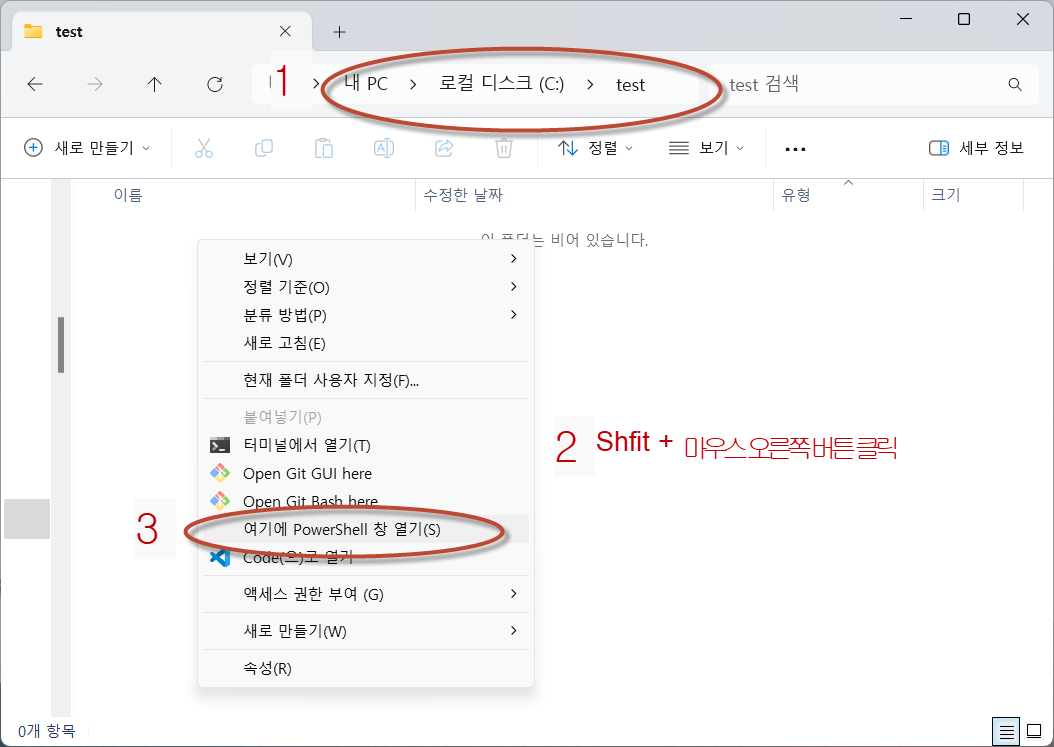
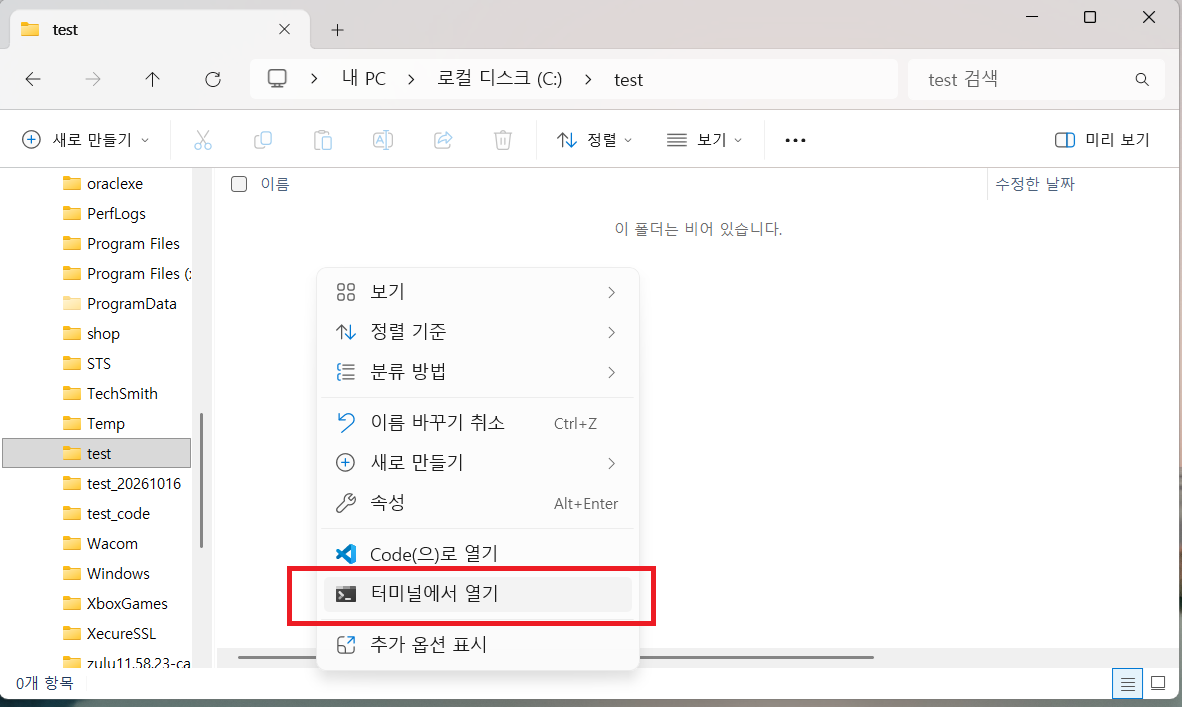
Add files via upload

diff --git a/temp/style2.css b/temp/style2.css
@@ -1,0 +1,130 @@
+body {
+    font-family: 'Segoe UI', Tahoma, Geneva, Verdana, sans-serif;
+    line-height: 1.6;
+    margin: 20px;
+    background-color: #f4f4f4;
+}
+.faq-container {
+    width: 100%;
+    max-width: 800px;
+    margin: auto;
+    padding: 20px;
+}
+.faq-section {
+    background-color: white;
+    margin-bottom: 10px;
+    border-radius: 8px;
+    box-shadow: 0 5px 15px rgba(0,0,0,0.1);
+    overflow: hidden;
+}
+.faq-question {
+    padding: 15px 20px;
+    margin: 0;
+    background-color: #007bff;
+    color: white;
+    cursor: pointer;
+    display: flex;
+    justify-content: space-between;
+    align-items: center;
+    transition: background 0.3s ease;
+}
+.faq-question:hover {
+    background-color: #0056b3;
+}
+.faq-question i {
+    transition: transform 0.3s ease;
+}
+.active .faq-question i {
+    transform: rotate(180deg);
+}
+.faq-answer {
+    padding: 20px;
+    background-color: #e9ecef;
+    display: none;
+}
+.faq-answer p {
+    margin: 0;
+}
+.correct-answer {
+    color: red;
+}
+
+.em{
+    font-weight: bold;
+}
+
+a {
+    color: inherit; /* 상위 요소로부터 글자 색상을 상속받습니다. */
+    text-decoration: none; /* 밑줄을 제거합니다. */
+}
+
+.highlight {
+    background-color: lightblue ;
+    padding: 2px 4px; /* 내용과 테두리 사이의 여백 */
+    border-radius: 4px; /* 모서리 둥글게 */
+    display: inline-block; /* 인라인 블록으로 표시 */
+    width: 80%; /* 너비 설정 */    
+    
+}
+
+/* "정답" 버튼의 스타일을 지정 */
+#answerButton {
+    float: right; /* 버튼을 오른쪽으로 이동 */
+    background-color: green; /* 배경 색상을 초록색으로 설정 */
+    color: white; /* 버튼 내 텍스트 색상을 흰색으로 설정 */
+    padding: 10px 20px; /* 내부 여백을 설정하여 버튼 크기 조정 */
+    border: none; /* 테두리 제거 */
+    border-radius: 5px; /* 버튼 모서리를 둥글게 */
+    cursor: pointer; /* 마우스 오버 시 커서 모양 변경 */
+}
+/* "정답" 버튼에 마우스를 올렸을 때의 스타일을 지정 */
+#answerButton:hover {
+    background-color: darkgreen; /* 마우스 오버 시 배경 색상을 어두운 초록색으로 변경 */
+}
+
+.answer{
+    margin-bottom : 20px;
+    width: 75%; /* 너비 설정 */    
+}
+
+.m1{
+    margin-top: 20px;
+}
+
+.mission > li {
+    font-weight: bold;
+}
+
+
+#source-code {
+    white-space: pre;        /* 공백과 줄바꿈을 유지 */
+    display: block;          /* 블록 레벨 요소로 만들기 */
+    background-color: #f4f4f4;/* 배경색 지정 */
+    border: 1px solid #ccc;  /* 테두리 설정 */
+    padding: 10px;           /* 패딩 추가 */
+    overflow: auto;          /* 내용이 넘칠 경우 스크롤바 표시 */
+    font-family: monospace;  /* 고정폭 글꼴 사용 */
+    font-size: 16px;         /* 글꼴 크기 설정 */
+    color: #333;             /* 글자색 설정 */
+}
+
+.title {
+    font-size: 36px;       /* 제목의 크기 */
+    color: grey;        /* 제목의 색상 */
+    font-family: 'Arial', sans-serif; /* 사용할 글꼴 */
+    text-align: center;    /* 텍스트 중앙 정렬 */
+    margin-top: 20px;      /* 위쪽 여백 */
+    margin-bottom: 20px;   /* 아래쪽 여백 */
+    font-weight: bold;     /* 글꼴 두께 */
+}
+
+.subtitle {
+    font-size: 24px;       /* 부제목의 크기 */
+    color: #666666;        /* 부제목의 색상 */
+    font-family: 'Arial', sans-serif; /* 사용할 글꼴 */
+    text-align: center;    /* 텍스트 중앙 정렬 */
+    margin-top: 10px;      /* 위쪽 여백 */
+    margin-bottom: 15px;   /* 아래쪽 여백 */
+    font-weight: normal;   /* 글꼴 두께 */
+    font-style: italic;    /* 이탤릭체 스타일 */
+}  

diff --git a/temp/menu11_1.html b/temp/menu11_1.html
@@ -1,0 +1,69 @@
+<script src="https://cdnjs.cloudflare.com/ajax/libs/prism/1.25.0/prism.min.js"></script>
+<script src="https://cdnjs.cloudflare.com/ajax/libs/prism/1.25.0/components/prism-python.min.js"></script> 
+<link href="https://cdnjs.cloudflare.com/ajax/libs/prism/1.25.0/themes/prism.min.css" rel="stylesheet" />    
+
+<h1 class="title"> PDF 파일 생성하기</h1>
+<div class="faq-container">
+    <div class="faq-section">
+        <div class="faq-question">
+            <img  src="question.png" width="34px" height="34px"  >
+            질문
+            <i class="fas fa-chevron-down"></i>
+        </div>
+        <div class="faq-answer">
+            <code id="source-code">
+너는 유능한 파이썬 프로그래머야.
+다음에 제시된 조건에 따라 파이썬 코드를 생성해줘
+
+# 조건
+1. 현재 작업 폴더에 'scandata' 폴더를 생성해.
+2. scandata 폴더에 PDF 파일 100개를 생성해.
+3. 생성되는 파일 이름의 규칙은 "년도_월_일" 로 날짜 정보를 나타내.
+4. 파일이름의 년도는 2023으로 고정하고 "월"과 "일"은 랜덤하게 지정해.                    
+            </code>            
+        </div>
+    </div>
+
+    <div class="faq-section">
+        <div class="faq-question">
+            <img src="gpt.png"   width="34px" height="34px" >
+            답변
+            <i class="fas fa-chevron-down"></i>
+        </div>
+        <div class="faq-answer">            
+            <code id="source-code" class="language-python">
+import os
+import random
+from datetime import datetime
+
+# 현재 작업 폴더에 "scandata" 폴더 생성
+output_folder = "scandata"
+os.makedirs(output_folder, exist_ok=True)
+
+# 년도는 2023으로 고정
+year = 2023
+
+# 100개의 PDF 파일 생성
+for i in range(1, 101):
+    # 월과 일을 랜덤으로 생성
+    month = random.randint(1, 12)
+    day = random.randint(1, 28)  # 간단하게 28일로 가정
+
+    # 파일 이름 형식에 맞게 포맷팅
+    file_name = f"{year}_{month:02d}_{day:02d}.pdf"
+
+    # 파일 생성
+    file_path = os.path.join(output_folder, file_name)
+    with open(file_path, 'w') as file:
+        # 파일 내용이 없으므로 pass
+        pass
+
+print("PDF 파일 생성이 완료되었습니다.")
+                                  
+            </code>
+        </div>
+    </div>
+</div>
+
+<script src="content.js"></script>
+
